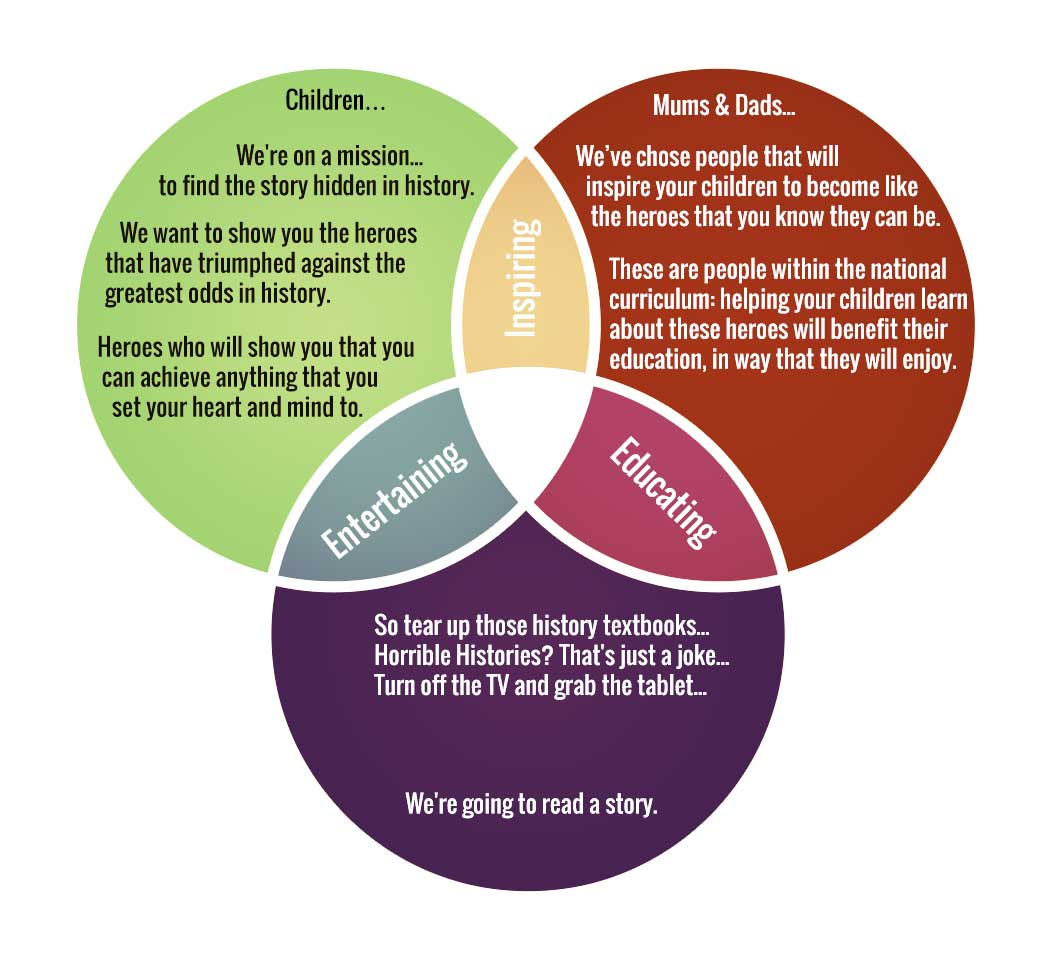
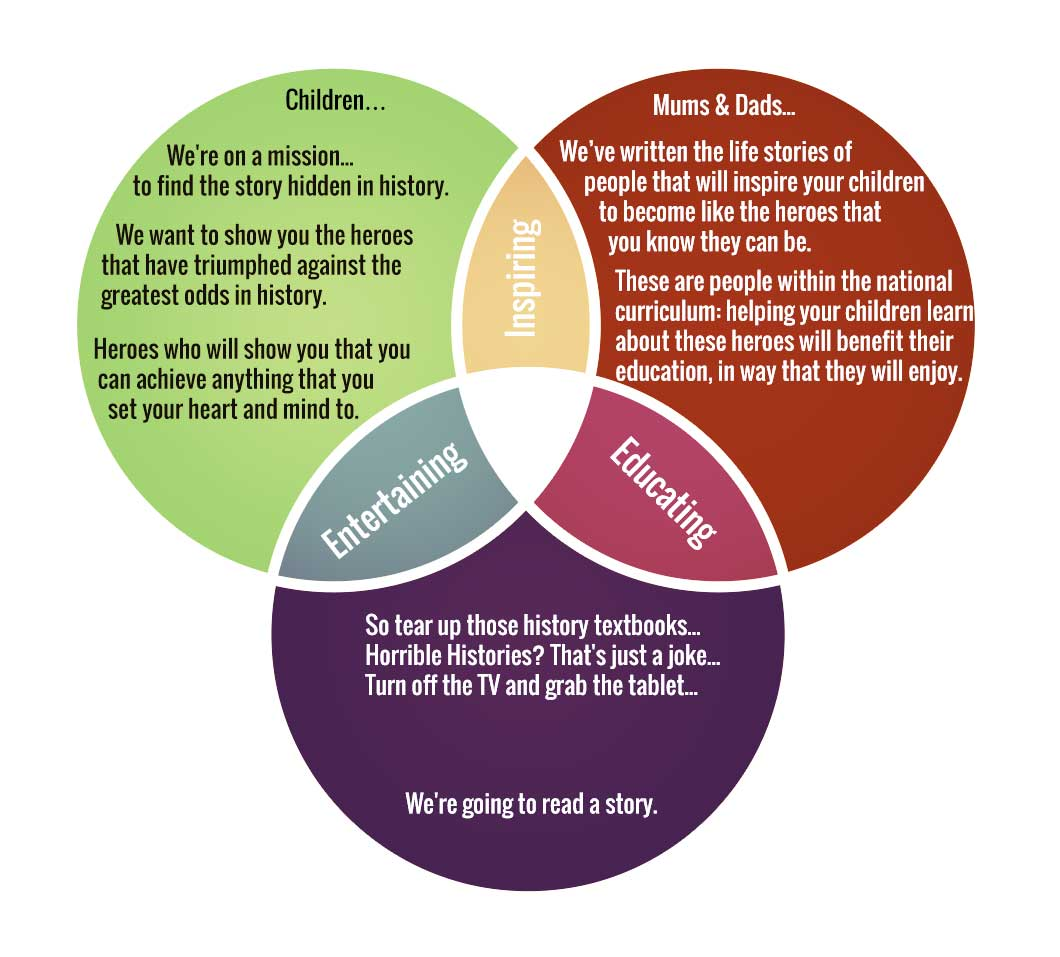
change design of mission page

Changed region(s): [[0.5292, 0.1212, 0.934, 0.4242], [0.0934, 0.1515, 0.467, 0.4545], [0.3425, 0.6364, 0.6849, 0.7273]]

diff --git a/mission.html b/mission.html
@@ -20,65 +20,83 @@
     </script>
   </head>
   <body>
-  <div class="row">
-    <div class="small-12 columns">
-      <h3 class="text-center white-text">
-        The Historical Heroes Collection
-      </h3>
-    </div>
-  </div>
     <div class="row">
-      <div class="small-6 columns">
-        <div class="div-circle one">
-          <h4 class="text-center">Children</h4>
-          <p>We're on a mission... to find the story hidden in history. </p>
-          <p>
-            We want to show you the heroes that have triumphed against the greatest odds in history. Heroes that will show you that you can achieve anything that you set your heart and mind to. </p>
-        </div>
-      </div>
-      <!-- <div class="small-1 columns"></div> -->
-      <div class="small-6 columns">
-        <div class="div-circle two">
-          <h4 class="text-center">Parents</h4>
-          <p>
-            We've written these stories that we hope children and yourselves will love to read.
-          </p>
-          <p>
-            We chose people that they will inspire your children to become like the heroes that you know they can be.
-          </p>
-          <p>
-            These people are within the main curriculum: helping your children learn about these heroes that will benefit their education, in way that they will enjoy. 
-          </p>
-          <p>
-            At the end of each story is a factual timeline of the person's life and a quiz.
-          </p>
-        </div>
-      </div>
-    </div>
-    <div class="row">
-      <div class="7 small-centered columns small-offset-4">
-        <h4 class="small-offset-1">Everyone!</h4>
-        <p>
-          So tear up those history textbooks... <br>
-          Horrible Histories? That's just a joke... <br>
-          Turn off the TV and grab the tablet: <br>
-          We're going to read a story.
-        </p>
-      </div>
-    </div>
-    <div class="row">
-      <div class="small-3 columns">
-        Join us...  <a href="https://itunes.apple.com/us/app/anne-frank-historical-heroes/id943215517?mt=8">The stories</a>
-      </div>
-      <br>
       <div class="small-12 columns">
-        We'd love to from hear you: <a href="mailto:theguys@historicalheroes.co.uk">theguys@historicalheroes.co.uk</a> seriously... drop us a line.
+        <h4 class="text-center">
+          
+        </h4>
+      </div>
+    </div>
+    <div class="row">
+      <div class="small-12 columns background-grey grey-border">
+        <h3 class="text-center">
+          Historical Heroes - What Makes Us Different*
+        </h3>
+      </div>
+    </div>
+    <div class="row">
+      <div class="img-wrapper text-center">
+        <img src="img/historical_heroes_venn.jpg">
+      </div>
+    </div>
+    <div class="row background-grey grey-border">
+      <div class="small-12 columns text-center">
+        <p class="title"> ===== The Historical Heroes Collection ===== </p>
+      </div>
+      <div class="row">
+        <div class="small-4 columns text-center">
+          <p>The Hero</p>
+        </div>
+        <div class="small-4 columns text-center">
+          <p>The Charity*</p>
+        </div>
+        <div class="small-4 columns text-center">
+          <p>The App</p>
+        </div>
+      </div>
+      <hr class="nmt">
+      <div class="row">
+        <div class="small-4 columns text-center">
+          <p class="small-text">Anne Frank</p>
+        </div>
+        <div class="small-4 columns text-center">
+          <p class="small-text">UNICEF</p>
+        </div>
+        <div class="small-4 columns text-center">
+          <a href="https://itunes.apple.com/us/app/anne-frank-historical-heroes/id943215517?mt=8">
+            <img src="img/Download_on_the_App_Store_Badge_US-UK_135x40.svg">
+          </a>
+        </div>
+      </div>
+      <div class="row">
+        <div class="small-4 columns text-center">
+          <p class="small-text">Florence Nightingale</p>
+        </div>
+        <div class="small-4 columns text-center">
+          <p class="small-text">coming soon...</p>
+        </div>
+        <div class="small-4 columns text-center">
+          <p class="small-text">coming soon...</p>
+        </div>
       </div>
     </div>
     <hr>
     <div class="row">
-      <div class="small-10 columns">
-        <p>(PS: 10% of all profits go to a charity related to the historical hero.)</p>
+      <div class="small-6 columns">
+      <p class="very-small-text">
+        <u> Contact</u> <br> We'd love to from hear you... Seriously, drop us a line. 
+        <a class="text-center" href="mailto:theguys@historicalheroes.co.uk">theguys@historicalheroes.co.uk</a>
+      </p>
+      </div>
+      <div class="small-6 columns">
+        <p class="very-small-text">
+          <u> * More Good Stuff </u><br> 10% of ALL PROFITS go to a charity chosen by the estate of that hero.
+        </p>
+      </div>
+      <div class="small-7 columns right">
+        <p class="tiny-small-text right">
+          (OK... I've read enough... I just want to see a <a href="index.html">video of a cute dog called Ivy)</a>
+        </p>
       </div>
     </div>
     

diff --git a/css/app.css b/css/app.css
@@ -57,8 +57,34 @@ h4{
 	color: white;
 }
 
+p {
+  font-family: 'Oswald', sans-serif;
+  font-size: 3vw;
+  color: black;
+}
+
 .white-text{
 	color: white;
+}
+
+.tiny-small-text {
+  font-size: 1vw;
+}
+
+.very-small-text {
+  font-size: 1.5vw;
+}
+
+.small-text {
+  font-size: 2vw;
+}
+
+.left {
+  float: left;
+}
+
+.right {
+  float: right;
 }
 
 .npt {
@@ -80,6 +106,29 @@ h4{
 	padding-top: 100px;
 }
 
+.npl {
+  padding-left: 0px;
+}
+.spl {
+  padding-left: 10px;
+}
+.mpl {
+  padding-left: 30px;
+}
+.lpl {
+  padding-left: 50px;
+}
+.xlpl {
+  padding-left: 70px;
+}
+.hpl {
+  padding-left: 100px;
+}
+
+.nmt {
+  margin-top: 0;
+}
+
 .bottom-right-abs{
 	transition: all 0.5s ease;
 	position: absolute;
@@ -88,41 +137,6 @@ h4{
 	background-color: #47889D;
 	padding: 10px;
 }
-
-
-/* Animations START */
-@keyframes flickerAnimation {
-  0%   { opacity:1; }
-  50%  { opacity:0.3; }
-  100% { opacity:1; }
-}
-@-o-keyframes flickerAnimation{
-  0%   { opacity:1; }
-  50%  { opacity:0.3; }
-  100% { opacity:1; }
-}
-@-moz-keyframes flickerAnimation{
-  0%   { opacity:1; }
-  50%  { opacity:0.3; }
-  100% { opacity:1; }
-}
-@-webkit-keyframes flickerAnimation{
-  0%   { opacity:1; }
-  50%  { opacity:0.3; }
-  100% { opacity:1; }
-}
-.animate-flicker {
-   -webkit-animation: flickerAnimation 5s infinite;
-   -moz-animation: flickerAnimation 5s infinite;
-   -o-animation: flickerAnimation 5s infinite;
-    animation: flickerAnimation 5s infinite;
-}
-
-/* Animations END */
-
-/*a:hover {
-	color: red;
-}*/
 
 .bottom-right-abs:hover{
 	/*color: yellow;*/
@@ -174,23 +188,17 @@ h4{
   background-color: #FF4040;
 }
 
-/* Colours END */
-
-.div-circle {
-    float: left;
-    width: 100%;
-    height: 100%;
-    border-radius: 50%;
-    color: #fff;
-    text-align: center;
-    vertical-align: middle;
-    font-size: 1em;
-    line-height: 100px;
-    text-transform: uppercase;
-    font-weight: bold;
-    font-family: sans-serif;
-    position: relative;
+.background-grey{
+  background-color: #f2f2f2;;
 }
-.one { background-color: blue; }
-.two::before{ position: absolute; left: 10% }
-.two { background-color: rgba(255,0,0,0.5); margin-left: -10%; }
+
+.grey-border {
+  border: 1px solid #e8e8e8;
+}
+
+.btn-border {
+  border-radius: 15px;
+  border: 3px solid #e8e8e8;
+}
+
+/* Colours END */

diff --git a/index.html b/index.html
@@ -31,15 +31,15 @@
       <video autoplay loop style="width:100%; height: auto; position:absolute; z-index: -1; top: 0">
 <!--         <source src="img/sleepy_ivy.mp4" type="video/mp4">
         <source src="img/sleepy_ivy.webm" type="video/webm"> -->
-<!--         <source src="img/sleepy_ivy.webm" type='video/webm'>
-        <source src="img/sleepy_ivy.mp4" type='video/mp4'> -->
+        <!-- <source src="img/sleepy_ivy.webm" type='video/webm'> -->
+        <source src="img/sleepy_ivy.mp4" type='video/mp4'>
         <source src="img/sleepy_ivy_sd.ogg" type='video/ogg'>
       </video>
     </div>
     <!-- <h3 class="white-text bottom-right-abs">Let's change that</h3> -->
     <a href="mission.html" alt="Historical Heroes Mission" class="">
       <!-- <img src="img/right-arrow5.png"> -->
-      <h3 class="white-text bottom-right-abs">Let's change that</h3>
+      <h3 class="white-text bottom-right-abs btn-border">Let's change that</h3>
     </a>
 
     
